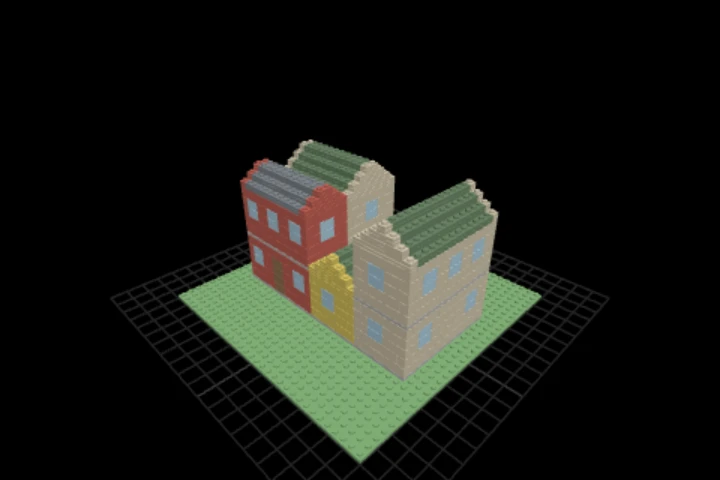
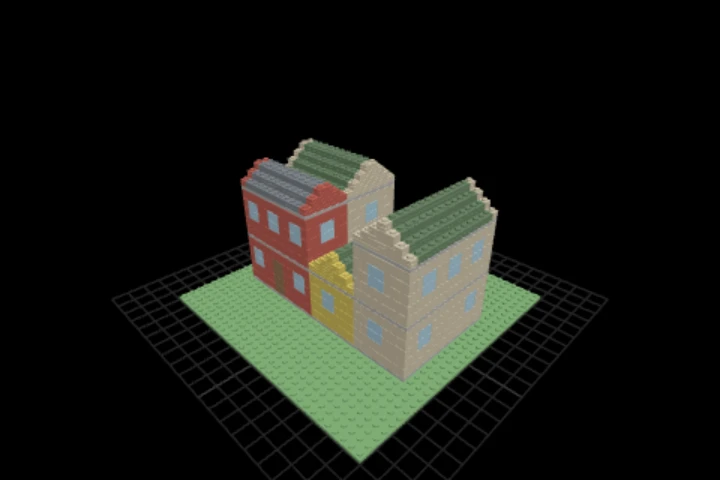
graphs: the brick house gets a ceiling, and every house holds together
The last 24 bricks no build order could attach (in 6 of 40 houses) were
the inner strips of stepped roofs over an empty attic. Only the two
outer strips stood on walls. A roof that narrows as it rises has no
course wide enough to tie the middle strips back to them, so no packer
setting could reach them. That makes it a grammar problem: each block
now carries a one-plate ceiling slab (kind floor) over its top storey,
and the roof stands on it.

Measured over seeds 1..40: 0 bricks at step -1 (was 24), and all 40
houses in one piece (was 34). The deepest build is 43 steps, under
buildStep's maximum of 60.

Re-verified independently on 41 seeds:
- the 6,123 non-roof pieces are identical to the previous graph, and
  all 1,755 roof pieces moved up exactly one plate;
- one ceiling per block, covering its footprint;
- no overlaps or blind openings;
- packing coverage and studs are exact;
- islands and steps were re-derived, with 269 partial-build sweeps.

Claude-Session: https://claude.ai/code/session_019yyedb23GojXFE1D4b15UK

diff --git a/docs/gallery.html b/docs/gallery.html
@@ -635,7 +635,7 @@ body:has(.shell) .grid-guide .wrap { max-width: 1180px; }
     <p class="blurb">Whole scenes rather than single ideas — each one exists because something in the library only shows up at that size.</p>
     <div class="grid">
       <a class="tile" id="examples-archipelago" href="./editor/?graph=examples-archipelago" data-family="examples" data-find="examples-archipelago an archipelago with forests, towns and roads examples terrain island scatter network spawner"><span class="frame"><img class="scene" src="./gallery/examples-archipelago.webp" width="720" height="480" loading="lazy" decoding="async" alt="examples-archipelago cooked in the editor: An archipelago with forests, towns and roads — 40,401 points, 2,915 instances"><img class="graph" src="./gallery/examples-archipelago.graph.webp" width="720" height="480" loading="lazy" decoding="async" alt=""></span><span class="meta"><b>examples-archipelago</b><span class="what">An archipelago with forests, towns and roads</span><span class="facts">34 nodes · 40,401 pts · 2,915 inst</span></span></a>
-      <a class="tile" id="examples-brick-house" href="./editor/?graph=examples-brick-house" data-family="examples" data-find="examples-brick-house a brick house split on a stud lattice and built in bricks examples structure topology"><span class="frame"><img class="scene" src="./gallery/examples-brick-house.webp" width="720" height="480" loading="lazy" decoding="async" alt="examples-brick-house cooked in the editor: A brick house split on a stud lattice and built in bricks — 84 points, 1,913 instances"><img class="graph" src="./gallery/examples-brick-house.graph.webp" width="720" height="480" loading="lazy" decoding="async" alt=""></span><span class="meta"><b>examples-brick-house</b><span class="what">A brick house split on a stud lattice and built in bricks</span><span class="facts">120 nodes · 84 pts · 1,913 inst</span></span></a>
+      <a class="tile" id="examples-brick-house" href="./editor/?graph=examples-brick-house" data-family="examples" data-find="examples-brick-house a brick house split on a stud lattice and built in bricks examples structure topology"><span class="frame"><img class="scene" src="./gallery/examples-brick-house.webp" width="720" height="480" loading="lazy" decoding="async" alt="examples-brick-house cooked in the editor: A brick house split on a stud lattice and built in bricks — 84 points, 2,010 instances"><img class="graph" src="./gallery/examples-brick-house.graph.webp" width="720" height="480" loading="lazy" decoding="async" alt=""></span><span class="meta"><b>examples-brick-house</b><span class="what">A brick house split on a stud lattice and built in bricks</span><span class="facts">122 nodes · 84 pts · 2,010 inst</span></span></a>
       <a class="tile" id="examples-coral" href="./editor/?graph=examples-coral" data-family="examples" data-find="examples-coral a dendrite grown by aggregation examples growth topology repeat"><span class="frame"><img class="scene" src="./gallery/examples-coral.webp" width="720" height="480" loading="lazy" decoding="async" alt="examples-coral cooked in the editor: A dendrite grown by aggregation — 2,484 points"><img class="graph" src="./gallery/examples-coral.graph.webp" width="720" height="480" loading="lazy" decoding="async" alt=""></span><span class="meta"><b>examples-coral</b><span class="what">A dendrite grown by aggregation</span><span class="facts">5 nodes · 2,484 pts · 2,483 prims</span></span></a>
       <a class="tile" id="examples-facade" href="./editor/?graph=examples-facade" data-family="examples" data-find="examples-facade split a box until the pieces are small enough examples structure repeat bounds"><span class="frame"><img class="scene" src="./gallery/examples-facade.webp" width="720" height="480" loading="lazy" decoding="async" alt="examples-facade cooked in the editor: Split a box until the pieces are small enough — 6,336 points"><img class="graph" src="./gallery/examples-facade.graph.webp" width="720" height="480" loading="lazy" decoding="async" alt=""></span><span class="meta"><b>examples-facade</b><span class="what">Split a box until the pieces are small enough</span><span class="facts">12 nodes · 6,336 pts · 3,168 prims</span></span></a>
       <a class="tile" id="examples-floorplan" href="./editor/?graph=examples-floorplan" data-family="examples" data-find="examples-floorplan rooms from a split footprint, with a circulation net examples structure repeat topology"><span class="frame"><img class="scene" src="./gallery/examples-floorplan.webp" width="720" height="480" loading="lazy" decoding="async" alt="examples-floorplan cooked in the editor: Rooms from a split footprint, with a circulation net — 800 points"><img class="graph" src="./gallery/examples-floorplan.graph.webp" width="720" height="480" loading="lazy" decoding="async" alt=""></span><span class="meta"><b>examples-floorplan</b><span class="what">Rooms from a split footprint, with a circulation net</span><span class="facts">16 nodes · 800 pts · 430 prims</span></span></a>

diff --git a/docs/graphs.md b/docs/graphs.md
@@ -1832,7 +1832,7 @@ Cook it: `pcg cook graphs/examples-archipelago.json --stats`
 
 **A brick house split on a stud lattice and built in bricks**
 
-A SHORT TERRACE OF HOUSES DERIVED BY A SPLIT GRAMMAR ON AN INTEGER LATTICE, THEN BUILT IN BRICKS. Every terminal of the grammar is an axis-aligned box whose corners are WHOLE NUMBERS -- x and z in studs, y in plates, a plate 0.4 of a stud -- carrying a string `kind` (wall, glass, door, roof, floor, ground) and a palette colour; `packBricks` turns those boxes into catalogue bricks, and the house is drawn as two instance batches, bricks and the studs left showing. THE GRAMMAR IS STAGED, NOT RECURSIVE, and that is the finding that matters for whether `examples-facade` and `examples-floorplan` are ever extracted into a split primitive. The derivation is lot -> blocks -> storeys -> a floor slab and four walls -> bays -> sill, head, two jambs and the opening, with a second branch from each block to the layers of a stepped gable roof. Every one of those rules has the SAME shape: fan the cell out to M slots against a rule cloud of M coincident points (`copyToPoints`, the slot riding on the source so it survives later filters), keep the slots a predicate allows, and rewrite the box piecewise by slot as sums of `eq(slot, i) * value_i`. The kind IS the stage, so there is no dispatch on a string anywhere. Depth is bounded -- two rounds of block splitting, at most three storeys, eight bays, fourteen roof layers -- so the rounds are written out and `repeatUntil` would buy nothing. This graph therefore does NOT agree in form with the two split graphs, and is not the third consumer that would justify extracting their recipe; the recurring thing here is the fan-out-keep-rewrite rule, and that is what to watch for a second time. THE CUT IS SNAPPED, AND DECIDED ON THE PARENT: `floor(span * f + 0.5)` clamped so neither half falls under six studs, carried to both children in `targetNames` exactly as the facade does, so the two halves of a block meet at one integer coordinate. THE WORKING BOX IS `lo`/`hi`, NOT `boundsMin`/`boundsMax`, because `copyToPoints` refuses to carry a standard column, and bounds are written once at the end in world units. One trap came with it: the two corners are rewritten by TWO nodes, so the second reads the first's output. The walls and openings are ordered so the second never reads a component the first changed; the roof rewrites both corners from every component, so it carries the block's original box (`blo`/`bhi`) and reads only that. A WINDOW GOES ONLY WHERE A WALL IS EXPOSED, and exposure is computed rather than assumed. Blocks share party walls, and a tall block beside a low one has a wall that is covered at the bottom and open above. Each candidate opening places a probe half a stud outside its wall at the BOTTOM of where it would be, and `transferAttribute` casts a ray straight up from it against a mesh of every block and roof layer, with `hitAttr` as the answer. That is an exact inside-test here and not a heuristic, for a reason worth stating: blocks and roof layers are prisms standing on the ground with nothing overhanging, so a point is inside one exactly when a ray going up from it hits a face, and if the bottom of the opening is free everything above it in that column is free too. ACROSS the opening it takes one probe PER STUD -- the first draft probed the centre only, and a neighbour ending mid-window or a roof layer stepping in left a window looking straight into a wall in three seeds of ten -- because a box on the lattice that overlaps the opening at all contains one of its studs; openings are at most two studs wide, so two probes. Doors go on the ground floor of the first lot-edge wall, south then north, in the middle bay; a z split happens at most once, so every block has one. THE BUILD. `packBricks` reads the pieces' world corners, keeps `kind` and colour apart with `groupBy`, and lays every wall in full bricks with the joints staggered course to course; the catalogue is the default one plus a 32 x 32 BASEPLATE, which the ground is exactly -- one piece under the whole lot, not a margin of loose plates. Neighbouring blocks each build their own wall, so a party wall is two studs thick, and the stud at each gable end of a roof layer has kind `wall` (it is the gable, in the wall's colour). THE MESHES ARE THE GRAPH'S OWN: two outputs carry `role: "asset"`, so `brick` (a unit box centred on its point) and `stud` (a twelve-sided stud standing on its point) are the meshes the two spawners' asset ids resolve to, in the editor and in `pcg render`, rather than placeholders. One box serves every brick because a brick point's `scale` is its own-frame size and its `rot` the quarter turn of a brick laid sideways; the 0.04 taken off `scale` before spawning is the hairline that makes the joints read. WHAT HOLDS TOGETHER is measured, not assumed. `brickConnectivity` numbers the pieces stud clutch alone holds together and gives every brick a build STEP: courses bottom up, a brick placed when it stands on the baseplate or grips one already placed, a plate hung under a floor placed with the floor. A floor or a roof's first course laid over an empty room is the hard case -- its plates touch nothing below, and the ones that reach no wall are held only by what is laid on them. Two things in the packer answer it, both found by counting over forty seeds: plates up to 2x16 in the catalogue, so a floor's plates reach a wall (378 bricks no order could attach became 220), and `bond`, which rewards a placement for every two pieces it joins, so the course above bridges the loose ones (24 left, in the stepped roofs of six houses; 34 of the 40 are one piece, against 5 before). Those few keep step -1: the whole build draws them, and every partial build leaves them out rather than show them hanging in air. THE `buildStep` PARAM shows the build as it stands after that step: bricks are kept while their step is at most it, and a stud shows once its brick is placed and until the brick resting on it is -- which is why the packer is asked for EVERY stud (`studMode: all`) with the index of the brick on it, and the step of each is read across by index.
+A SHORT TERRACE OF HOUSES DERIVED BY A SPLIT GRAMMAR ON AN INTEGER LATTICE, THEN BUILT IN BRICKS. Every terminal of the grammar is an axis-aligned box whose corners are WHOLE NUMBERS -- x and z in studs, y in plates, a plate 0.4 of a stud -- carrying a string `kind` (wall, glass, door, roof, floor, ground) and a palette colour; `packBricks` turns those boxes into catalogue bricks, and the house is drawn as two instance batches, bricks and the studs left showing. THE GRAMMAR IS STAGED, NOT RECURSIVE, and that is the finding that matters for whether `examples-facade` and `examples-floorplan` are ever extracted into a split primitive. The derivation is lot -> blocks -> storeys -> a floor slab and four walls -> bays -> sill, head, two jambs and the opening, with a ceiling slab over each block's top storey and a second branch from each block to the layers of a stepped gable roof standing on it. Every one of those rules has the SAME shape: fan the cell out to M slots against a rule cloud of M coincident points (`copyToPoints`, the slot riding on the source so it survives later filters), keep the slots a predicate allows, and rewrite the box piecewise by slot as sums of `eq(slot, i) * value_i`. The kind IS the stage, so there is no dispatch on a string anywhere. Depth is bounded -- two rounds of block splitting, at most three storeys, eight bays, fourteen roof layers -- so the rounds are written out and `repeatUntil` would buy nothing. This graph therefore does NOT agree in form with the two split graphs, and is not the third consumer that would justify extracting their recipe; the recurring thing here is the fan-out-keep-rewrite rule, and that is what to watch for a second time. THE CUT IS SNAPPED, AND DECIDED ON THE PARENT: `floor(span * f + 0.5)` clamped so neither half falls under six studs, carried to both children in `targetNames` exactly as the facade does, so the two halves of a block meet at one integer coordinate. THE WORKING BOX IS `lo`/`hi`, NOT `boundsMin`/`boundsMax`, because `copyToPoints` refuses to carry a standard column, and bounds are written once at the end in world units. One trap came with it: the two corners are rewritten by TWO nodes, so the second reads the first's output. The walls and openings are ordered so the second never reads a component the first changed; the roof rewrites both corners from every component, so it carries the block's original box (`blo`/`bhi`) and reads only that. A WINDOW GOES ONLY WHERE A WALL IS EXPOSED, and exposure is computed rather than assumed. Blocks share party walls, and a tall block beside a low one has a wall that is covered at the bottom and open above. Each candidate opening places a probe half a stud outside its wall at the BOTTOM of where it would be, and `transferAttribute` casts a ray straight up from it against a mesh of every block and roof layer, with `hitAttr` as the answer. That is an exact inside-test here and not a heuristic, for a reason worth stating: blocks and roof layers are prisms standing on the ground with nothing overhanging, so a point is inside one exactly when a ray going up from it hits a face, and if the bottom of the opening is free everything above it in that column is free too. ACROSS the opening it takes one probe PER STUD -- the first draft probed the centre only, and a neighbour ending mid-window or a roof layer stepping in left a window looking straight into a wall in three seeds of ten -- because a box on the lattice that overlaps the opening at all contains one of its studs; openings are at most two studs wide, so two probes. Doors go on the ground floor of the first lot-edge wall, south then north, in the middle bay; a z split happens at most once, so every block has one. THE BUILD. `packBricks` reads the pieces' world corners, keeps `kind` and colour apart with `groupBy`, and lays every wall in full bricks with the joints staggered course to course; the catalogue is the default one plus a 32 x 32 BASEPLATE, which the ground is exactly -- one piece under the whole lot, not a margin of loose plates. Neighbouring blocks each build their own wall, so a party wall is two studs thick, and the stud at each gable end of a roof layer has kind `wall` (it is the gable, in the wall's colour). THE MESHES ARE THE GRAPH'S OWN: two outputs carry `role: "asset"`, so `brick` (a unit box centred on its point) and `stud` (a twelve-sided stud standing on its point) are the meshes the two spawners' asset ids resolve to, in the editor and in `pcg render`, rather than placeholders. One box serves every brick because a brick point's `scale` is its own-frame size and its `rot` the quarter turn of a brick laid sideways; the 0.04 taken off `scale` before spawning is the hairline that makes the joints read. WHAT HOLDS TOGETHER is measured, not assumed. `brickConnectivity` numbers the pieces stud clutch alone holds together and gives every brick a build STEP: courses bottom up, a brick placed when it stands on the baseplate or grips one already placed, a plate hung under a floor placed with the floor. A floor or a roof's first course laid over an empty room is the hard case -- its plates touch nothing below, and the ones that reach no wall are held only by what is laid on them. Two things in the packer answer it, both found by counting over forty seeds: plates up to 2x16 in the catalogue, so a floor's plates reach a wall (378 bricks no order could attach became 220), and `bond`, which rewards a placement for every two pieces it joins, so the course above bridges the loose ones (24 left, 34 of the 40 houses in one piece, against 5 before). The last 24 were the inner strips of stepped roofs over an EMPTY ATTIC: only the two outer strips stood on walls, and a roof that narrows as it rises has no course wide enough to tie the middle ones back to them. That is the grammar's to fix, not the packer's -- a house has a ceiling -- so each block now carries a one-plate ceiling slab over its top storey and the roof stands on it: every house of the forty is one piece, and every brick has a step. A brick that never could be attached would keep step -1; the whole build draws it and every partial build leaves it out rather than show it hanging in air. THE `buildStep` PARAM shows the build as it stands after that step: bricks are kept while their step is at most it, and a stud shows once its brick is placed and until the brick resting on it is -- which is why the packer is asked for EVERY stud (`studMode: all`) with the index of the brick on it, and the step of each is read across by index.
 
 **Tags:** `examples`, `structure`, `topology`
 
